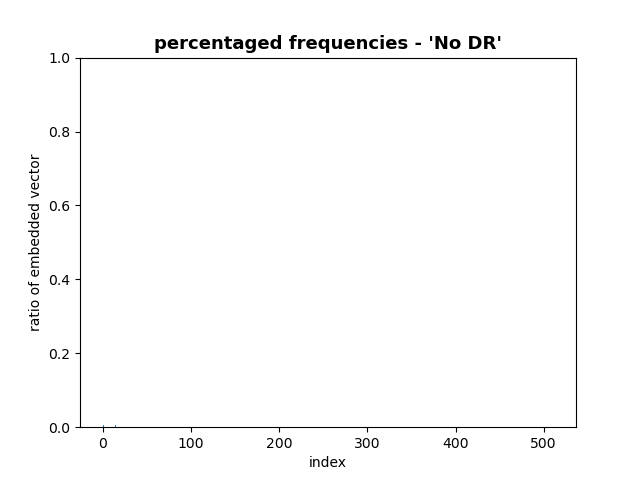
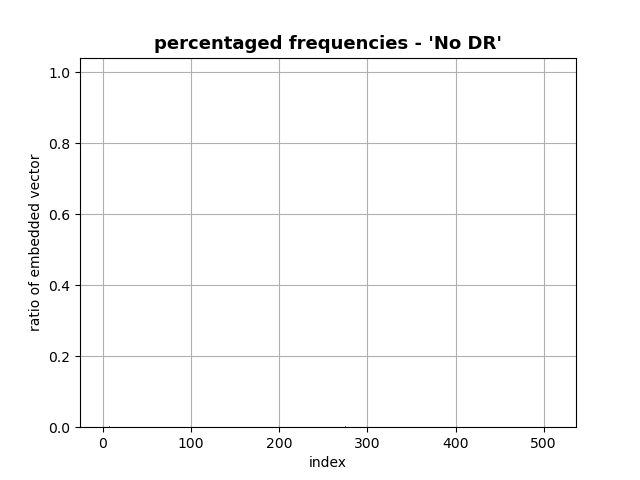
vq_vae2

diff --git a/utils/introspection.py b/utils/introspection.py
@@ -333,12 +333,14 @@ def visualize_latent_space(test_data, img_folder, csv, vq_vae,
                     bins_to_add = np.bincount(indices.ravel(), minlength=num_emb)
                     bins = np.add(bins, bins_to_add)
 
-        # Sort indices of embedded vectors regarding best order
-        histograms[j] = bins[best_order]
+        histograms[j] = bins
 
     hist_intersection = np.amin(histograms, axis=0)
 
     for j, hist in enumerate(histograms):
+        # Sort indices of embedded vectors regarding best order
+        hist = hist[best_order]
+
         plt.hist(hist, bins=np.arange(num_emb), density=True)
         plt.title(f"percentaged frequencies - \'{disease_states[j]}\'",
                   fontsize=13,
@@ -346,7 +348,8 @@ def visualize_latent_space(test_data, img_folder, csv, vq_vae,
                   )
         plt.xlabel("index")
         plt.ylabel("ratio of embedded vector")
-        plt.ylim(0.0, 1.0)
+        plt.grid()
+        #plt.ylim(0.0, 1.0)
         plt.savefig(f"{network_dir}/histograms/histogram_{disease_states[j]}.png")
         plt.show(block=False)
         plt.pause(2)
@@ -357,7 +360,8 @@ def visualize_latent_space(test_data, img_folder, csv, vq_vae,
                   fontsize=13,
                   fontweight='bold'
                   )
-        plt.ylim(0.0, 1.0)
+        plt.grid()
+        #plt.ylim(0.0, 1.0)
         plt.xlabel("index")
         plt.ylabel("ratio of embedded vector")
         plt.savefig(f"{network_dir}/histograms/histogram_{disease_states[j]}_diff.png")
@@ -369,11 +373,12 @@ def visualize_latent_space(test_data, img_folder, csv, vq_vae,
     plt.figure(figsize=(12, 12))
     for i, hist in enumerate(histograms):
         plt.hist(hist, bins=np.arange(num_emb), density=True, alpha=0.5, label=disease_states[i])
-    plt.ylim(0.0, 1.0)
+    #plt.ylim(0.0, 1.0)
     plt.title("multiple histograms of all disease states",
               fontsize=13,
               fontweight='bold')
     plt.legend(loc='upper right')
+    plt.grid()
     plt.show()
     plt.savefig(f"{network_dir}/histograms/overlap_of_histogram.png")
     plt.close()
